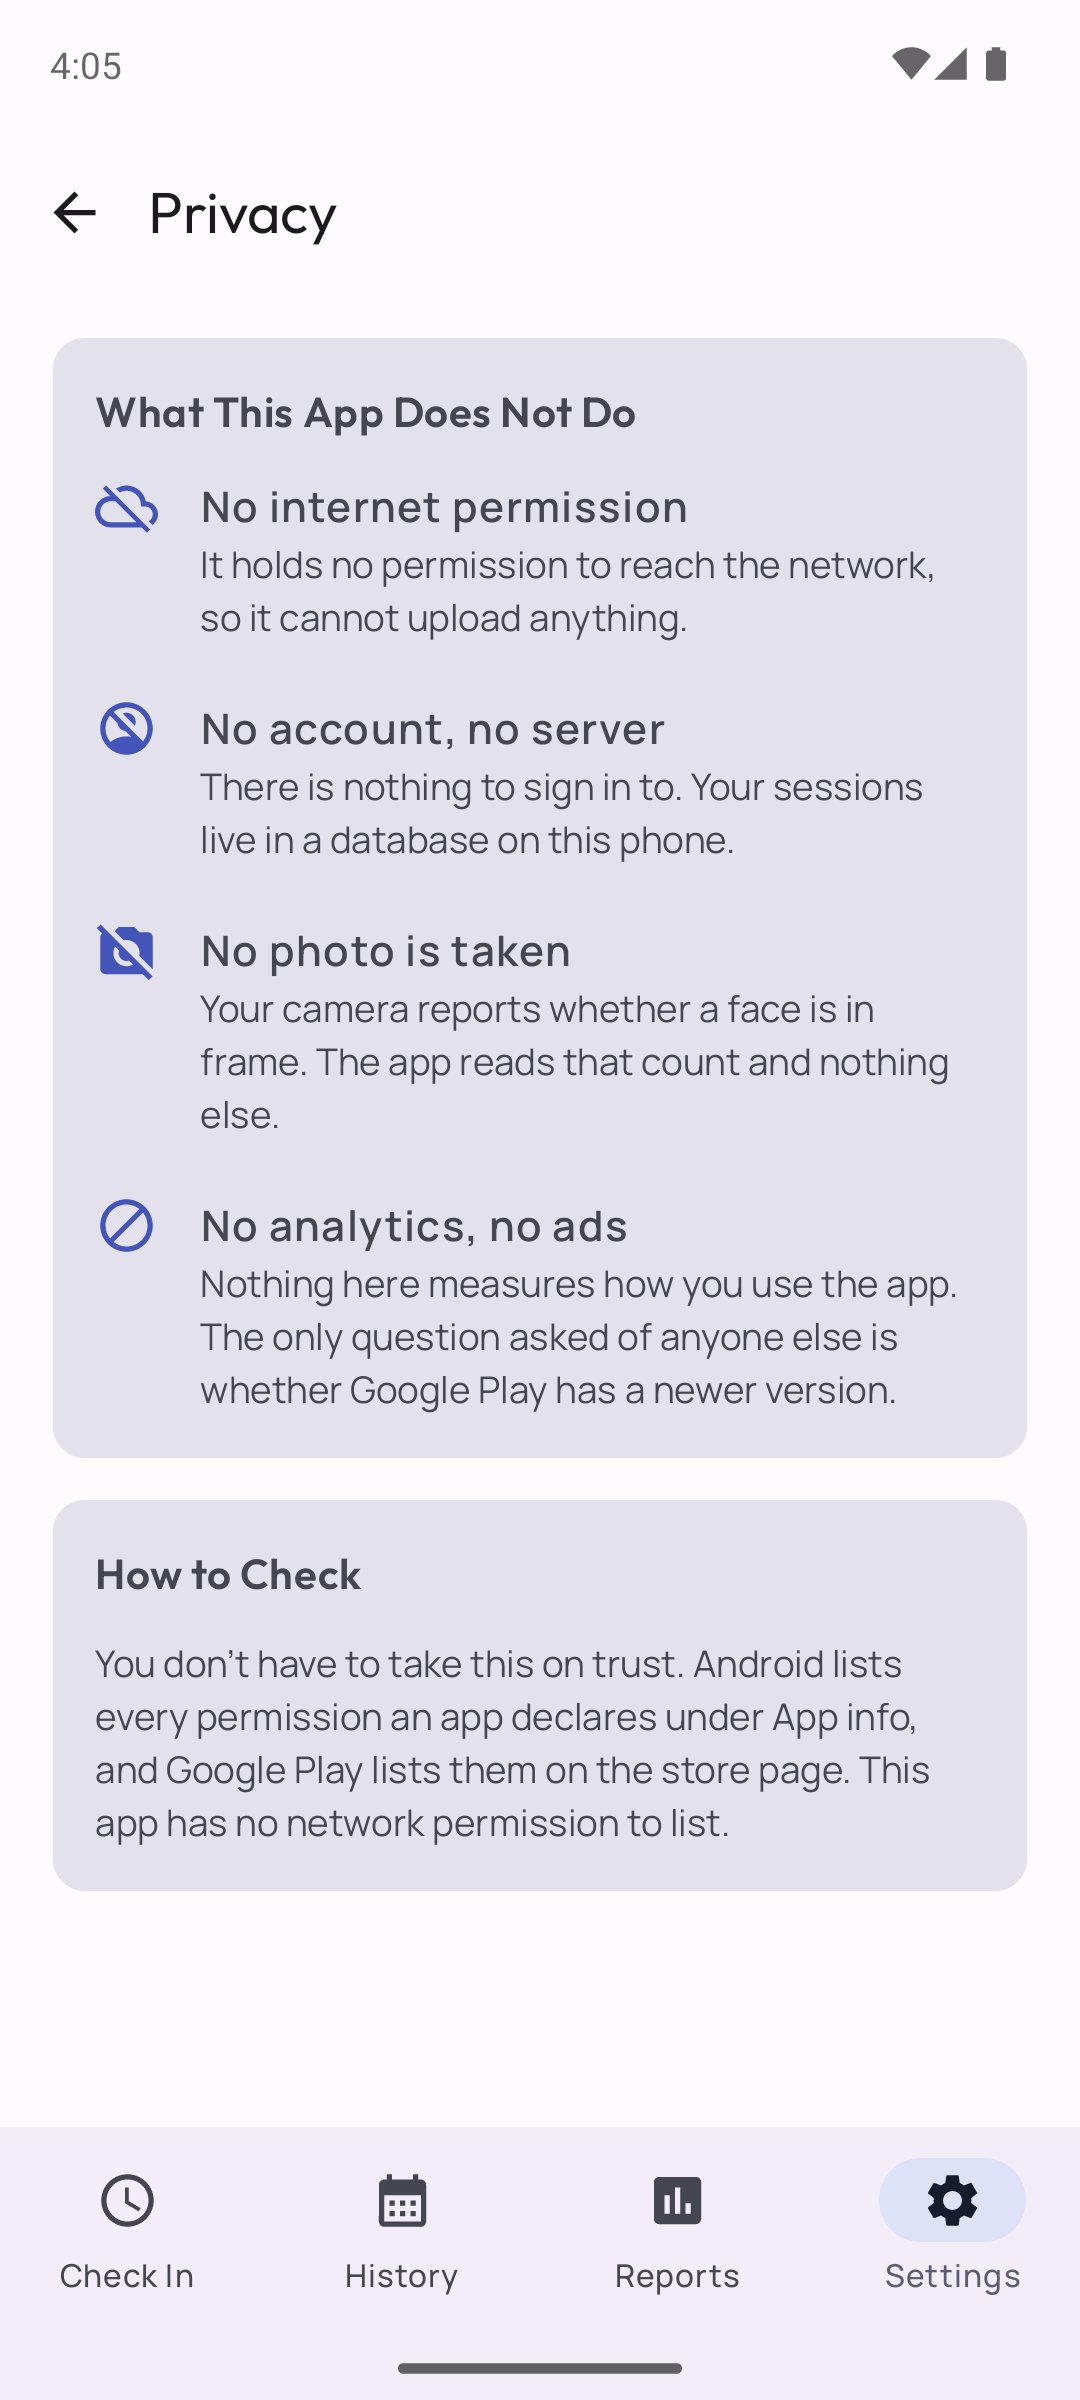
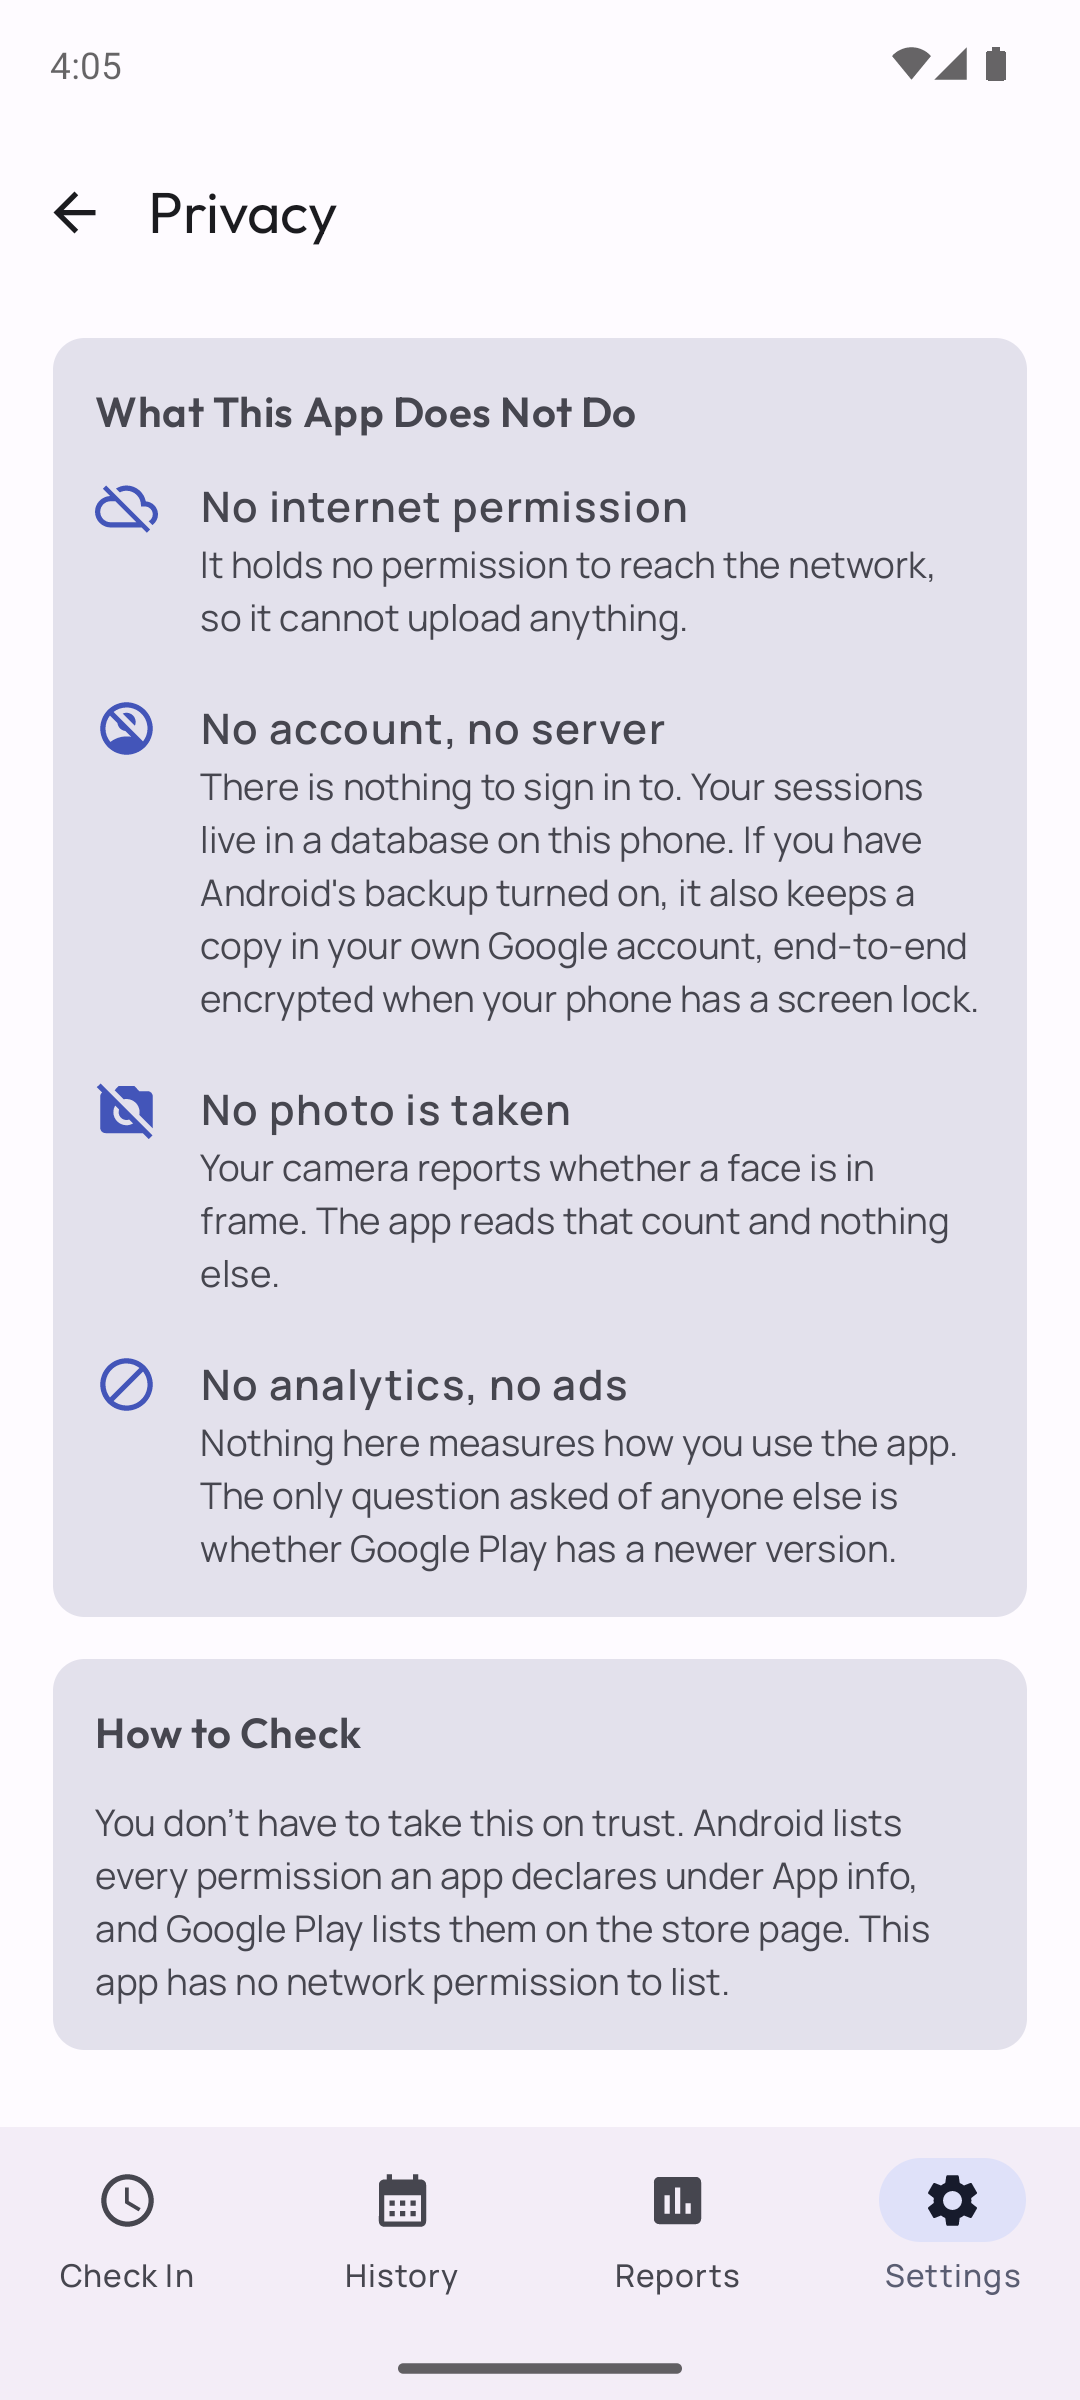
Re-shoot the privacy screenshot for 3.2's backup line (#34)
Slot 7 showed the Privacy screen before "No account, no server" named
Android's backup. Re-shot on CheckIn_API33 against the signed 3.2 release
build (Version 3.2, build 20261028), same demo-mode status bar as the set.

The other seven panels and the tablet set show nothing 3.2 changed, and
regenerate pixel-identical, so they are untouched. The README now says the
generator needs Pillow's basic text layout: under raqm every caption sets
narrower and one re-shot panel rewrites all eight.

Changed region(s): [[0.0306, 0.3438, 0.9778, 0.875], [0.0917, 0.4375, 0.1528, 0.5312], [0.0917, 0.375, 0.1528, 0.4062]]

diff --git a/play-store-assets/README.md b/play-store-assets/README.md
@@ -124,3 +124,9 @@ capture: opening the shade restores the app's status-bar icon.
 Capture with `adb exec-out screencap -p > play-store-assets/screenshots/all/<device>/NN-name.png`,
 then copy the listing picks into `screenshots/raw/` (phone, named as LISTING.md's table) and
 `screenshots/tablet/`, and run `python3 play-store-assets/generate_screenshots.py`.
+
+**Run it under a Pillow with the basic text layout** (`PIL.features.check("raqm")` false; the
+committed set reproduces exactly under Pillow 11.3 with basic layout). Under raqm, which current PyPI wheels bundle, every caption
+sets a few pixels narrower, so re-shooting one panel rewrites all eight and the strip stops
+matching. Before committing, compare pixels, not bytes: the panels you did not re-shoot must come
+out identical.
